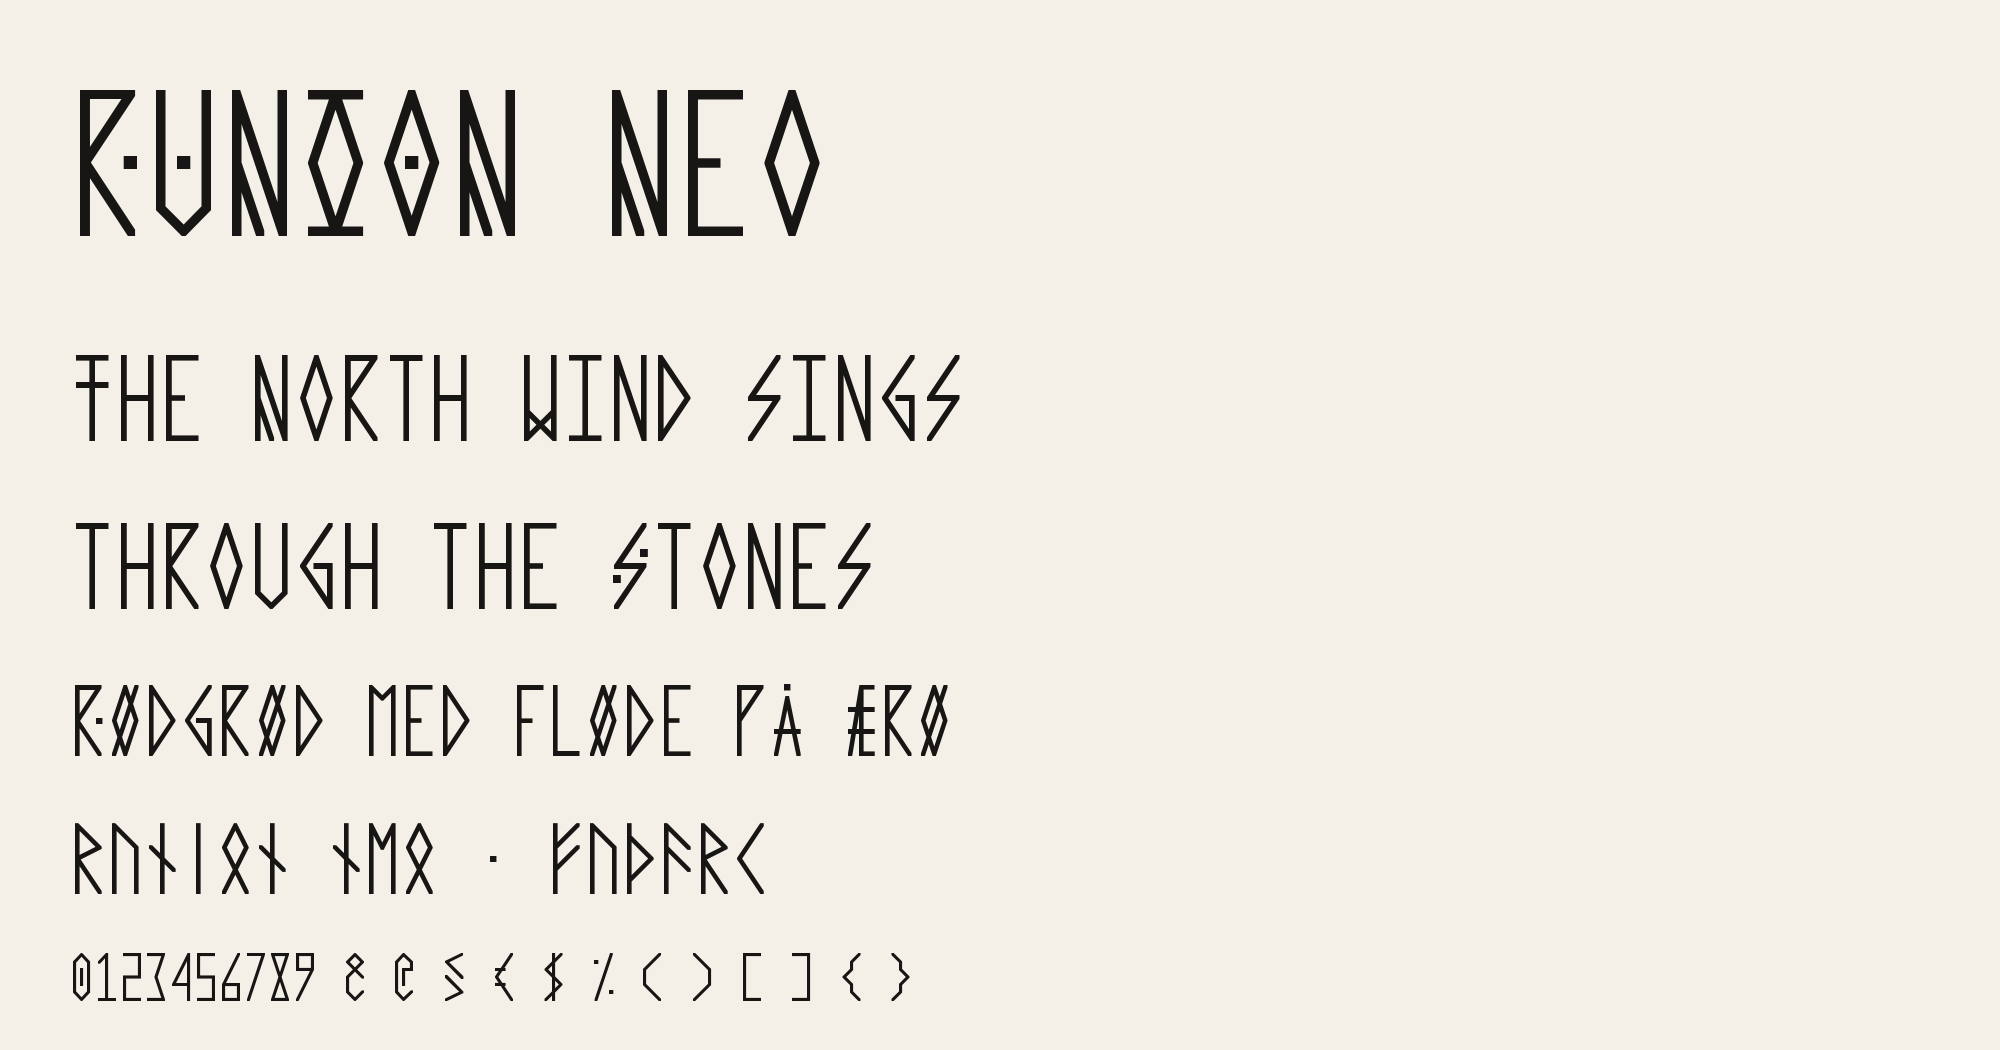
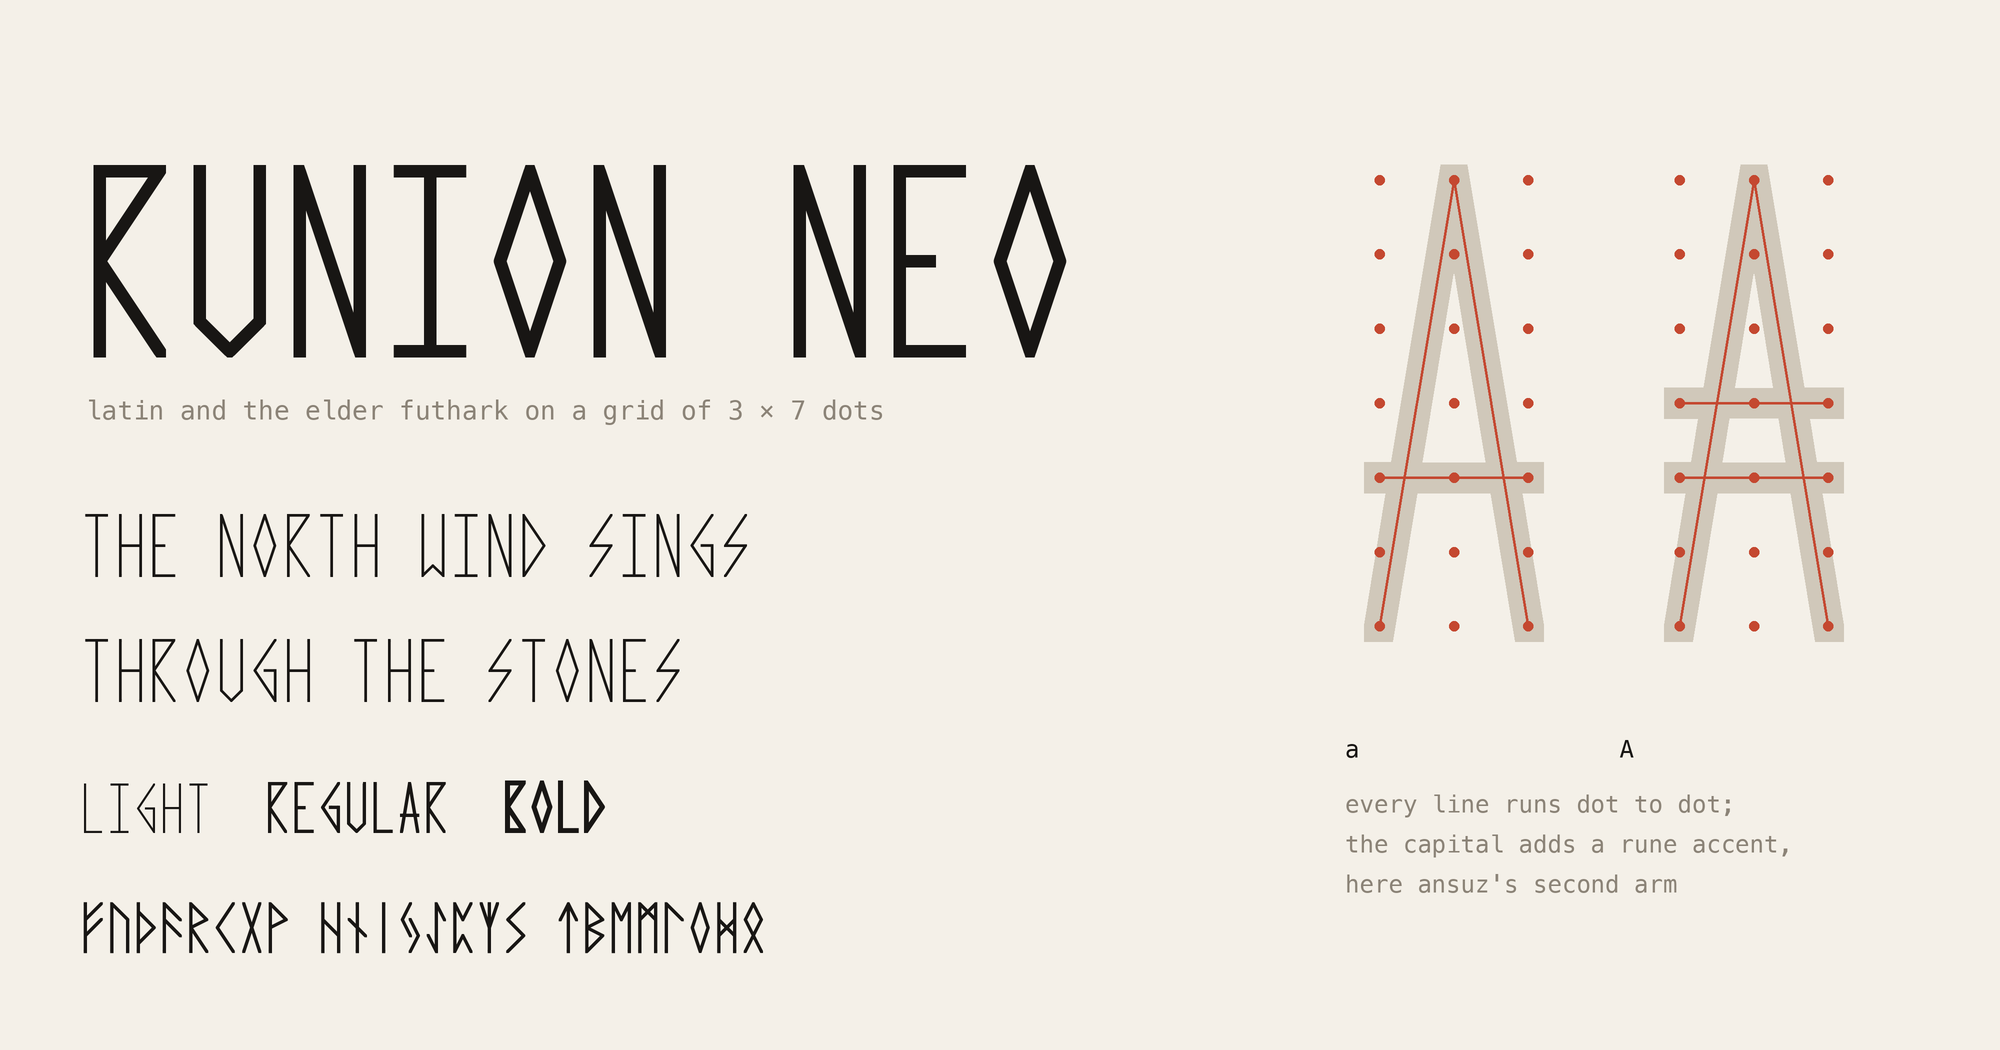
Showcase: lowercase leads, the a/A construction explains the capitals

diff --git a/sources/proof.py b/sources/proof.py
@@ -20,16 +20,59 @@ def label_font(size):
     return ImageFont.load_default()
 
 
+def draw_construction(d, g, P, ox, top, S, ink=(208, 200, 186), dots=range(0, 7), line=5, r=9):
+    """A glyph on its grid: the ink, the skeleton dot to dot, and the dots. top = y of the grid's top row."""
+    to = lambda x, y: (ox + x * S, top + (P.cap - P.h - y) * S - (P.cap - P.h - P.pt(0, P.rows - 1)[1]) * S)
+    shape = outline(g, P)
+    for ring in contours(shape):
+        d.polygon([to(x, y) for x, y in ring], fill=ink)
+    for poly in getattr(shape, "geoms", [shape]):
+        for hole in getattr(poly, "interiors", []):
+            d.polygon([to(x, y) for x, y in hole.coords], fill=PAPER)
+    for s in g.strokes:
+        pts = [to(*P.pt(*p)) for p in s]
+        if len(pts) > 1:
+            d.line(pts, fill=ACCENT, width=line, joint="curve")
+    for gx in range(P.cols):
+        for gy in dots:
+            x, y = to(*P.pt(gx, gy))
+            rr = r if 0 <= gy < P.rows else r * 0.6
+            d.ellipse([x - rr, y - rr, x + rr, y + rr], fill=ACCENT if 0 <= gy < P.rows else (214, 170, 150))
+
+
 def specimen():
-    lines = [("RUNION Neo", 190), ("The North Wind sings", 112), ("through the Stones", 112),
-             ("Rødgrød med fløde på Ærø", 92), ("ᚱᚢᚾᛁᛟᚾ ᚾᛖᛟ · ᚠᚢᚦᚨᚱᚲ", 92),
-             ("0123456789 & @ § € $ % ( ) [ ] { }", 62)]
-    img = Image.new("RGB", (2000, 1050), PAPER)
-    d, y = ImageDraw.Draw(img), 40
-    for text, size in lines:
-        d.text((70, y), text, font=ImageFont.truetype(TTF, size), fill=INK)
-        y += int(size * 1.5)
-    img.save(DOC / "specimen.png")
+    """The showcase: lowercase leads, the system on the right, capitals only where they explain themselves."""
+    K = 2                                                     # drawn at 2× and scaled down, for clean edges
+    img = Image.new("RGB", (2000 * K, 1050 * K), PAPER)
+    d = ImageDraw.Draw(img)
+
+    def vf(size, w=400):
+        font = ImageFont.truetype(VF, size * K)
+        font.set_variation_by_axes([w])
+        return font
+
+    x = 80 * K
+    d.text((x, 100 * K), "runion neo", font=vf(250, 400), fill=INK)
+    d.text((x + 6 * K, 395 * K), "latin and the elder futhark on a grid of 3 × 7 dots", font=label_font(26 * K), fill=SOFT)
+    d.text((x, 490 * K), "the north wind sings", font=vf(84, 300), fill=INK)
+    d.text((x, 615 * K), "through the stones", font=vf(84, 300), fill=INK)
+    y, cx = 765 * K, x
+    for word, w in (("light", 300), ("regular", 400), ("bold", 700)):
+        d.text((cx, y), word, font=vf(66, w), fill=INK)
+        cx += int(vf(66, w).getlength(word + "  "))
+    d.text((x, 885 * K), "ᚠᚢᚦᚨᚱᚲᚷᚹ ᚺᚾᛁᛃᛇᛈᛉᛊ ᛏᛒᛖᛗᛚᛜᛞᛟ", font=vf(66, 400), fill=INK)
+
+    P = Params()                                              # the system: a and its capital, dot to dot
+    glyphs = {g.name: g for g in parse(SRC / "glyphs.txt", P)}
+    S = 0.62 * K
+    for i, name in enumerate(("a", "A")):
+        draw_construction(d, glyphs[name], P, 1330 * K + i * 300 * K, 180 * K, S, line=5 * K // 2, r=8 * K // 2 + 2)
+    small = label_font(24 * K)
+    d.text((1345 * K, 735 * K), "a                  A", font=small, fill=INK)
+    d.text((1345 * K, 790 * K), "every line runs dot to dot;", font=small, fill=SOFT)
+    d.text((1345 * K, 830 * K), "the capital adds a rune accent,", font=small, fill=SOFT)
+    d.text((1345 * K, 870 * K), "here ansuz's second arm", font=small, fill=SOFT)
+    img.resize((2000, 1050), Image.LANCZOS).save(DOC / "specimen.png")
 
 
 def weights():
